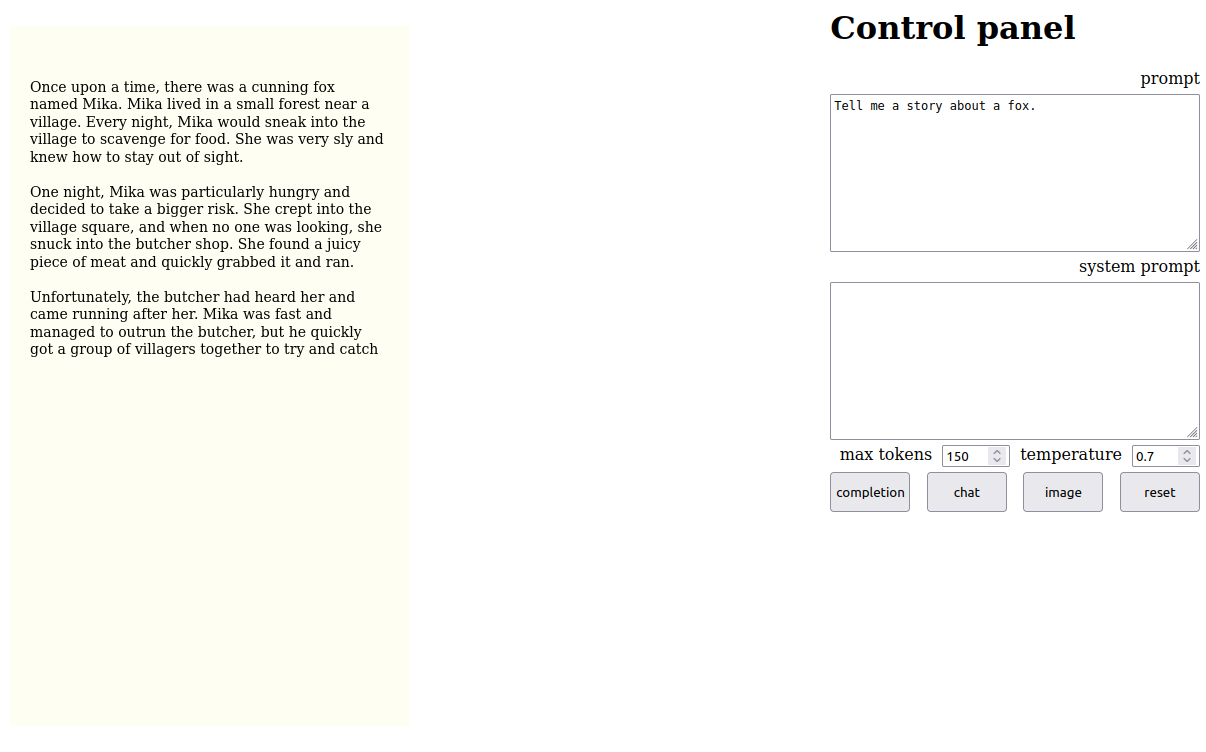
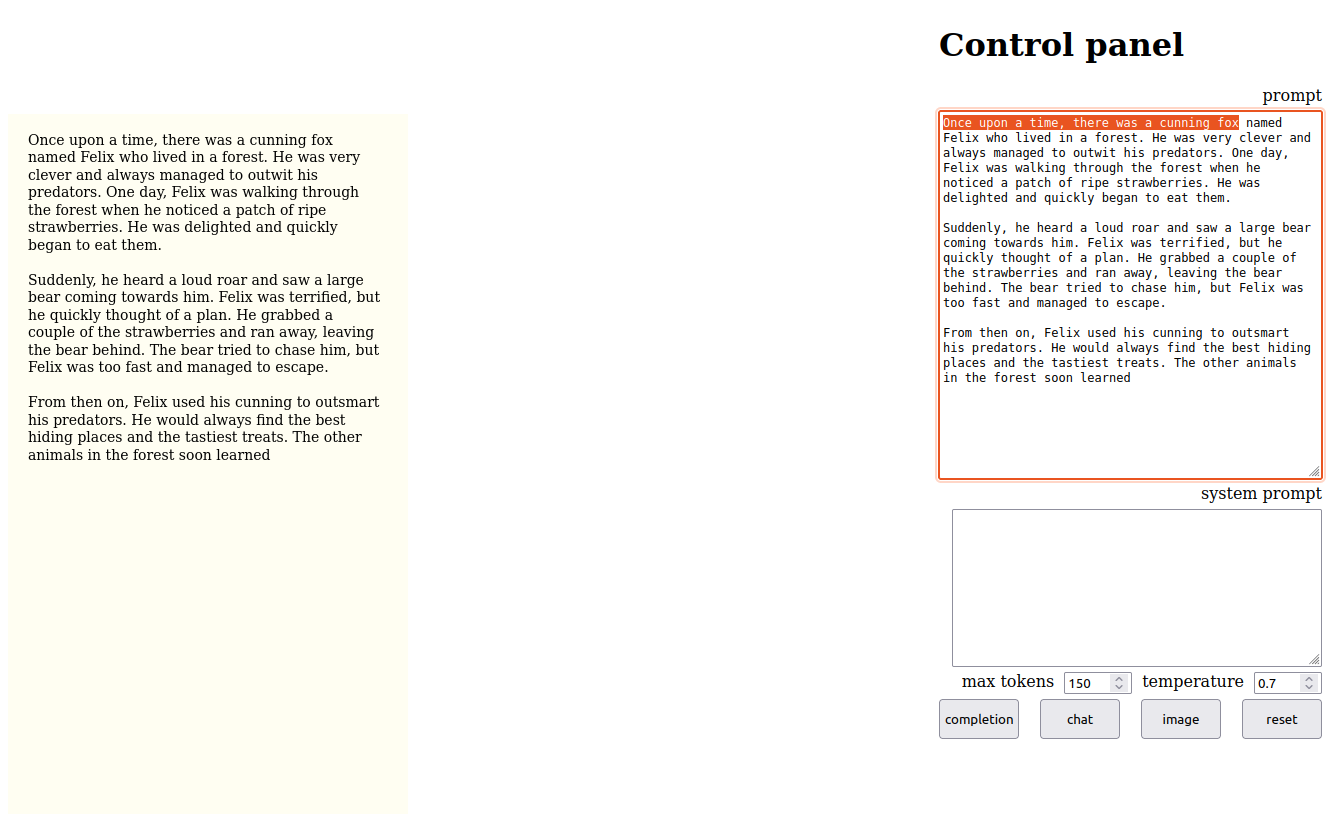
readme, pics | update reflecting the completion mechanism in openai

diff --git a/readme.md b/readme.md
@@ -86,7 +86,7 @@ A [websocket app](openai/) with with NodeJS, Express, SocketIO and P5js using th
 
 Press `¬` to toggle the UI.
 
-Click on `completion` to get ChatGPT to continue the text in the **prompt** `textarea` (**system** is ignored).
+Click on `completion` to get ChatGPT to continue the text in the **prompt** `textarea` (**system** is ignored, both the prompt `textarea` and the sketch are filled with the **prompt** and the completion). In the picture below, the original prompt is highlighted.
 
 ![openai, chatgpt completion](pics/openai.chatgpt-completion.png)
 
